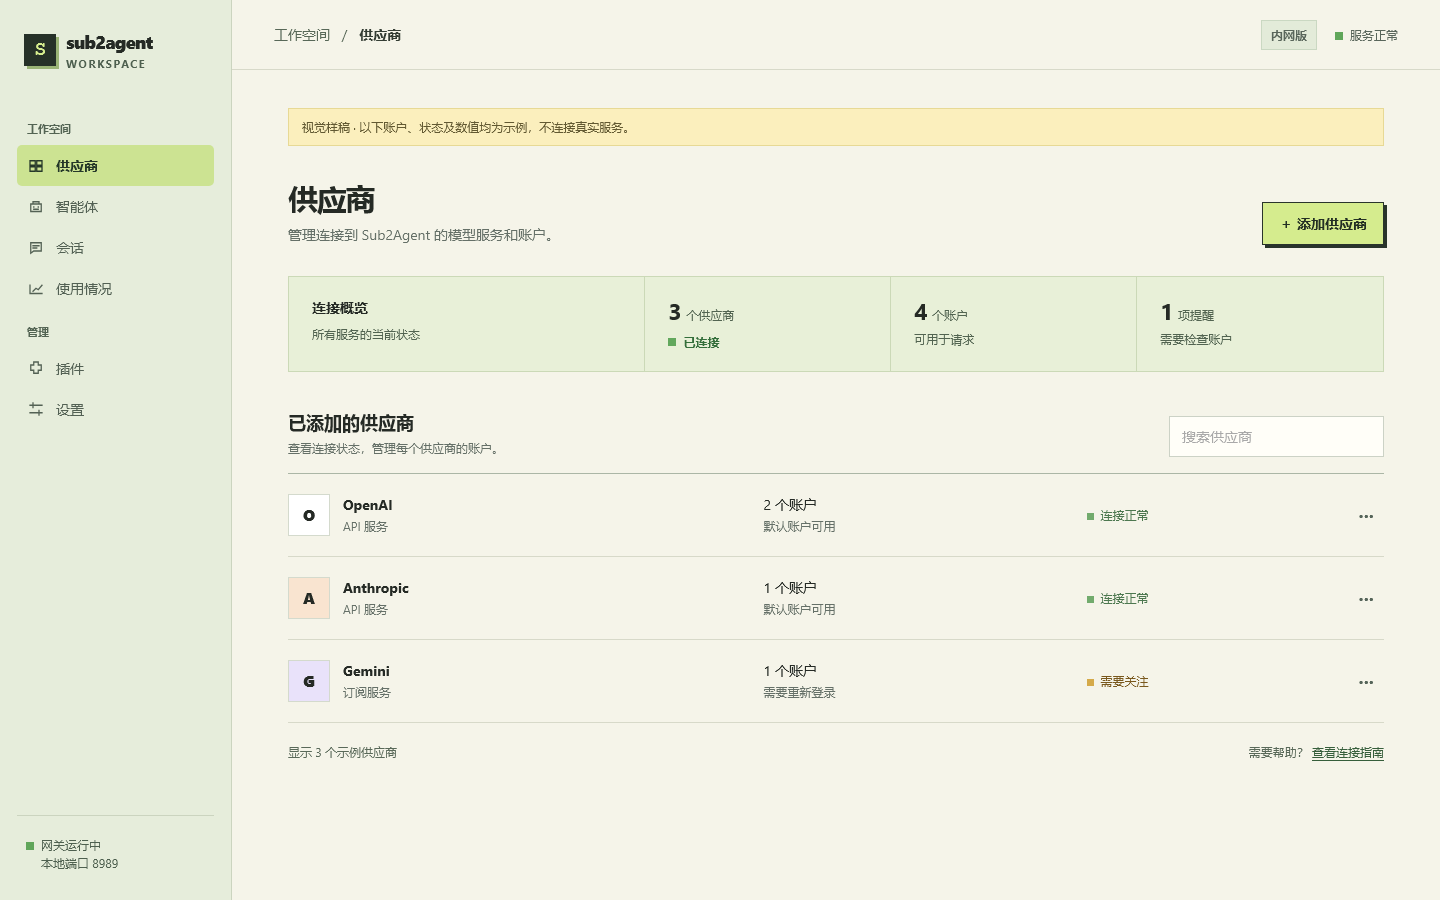
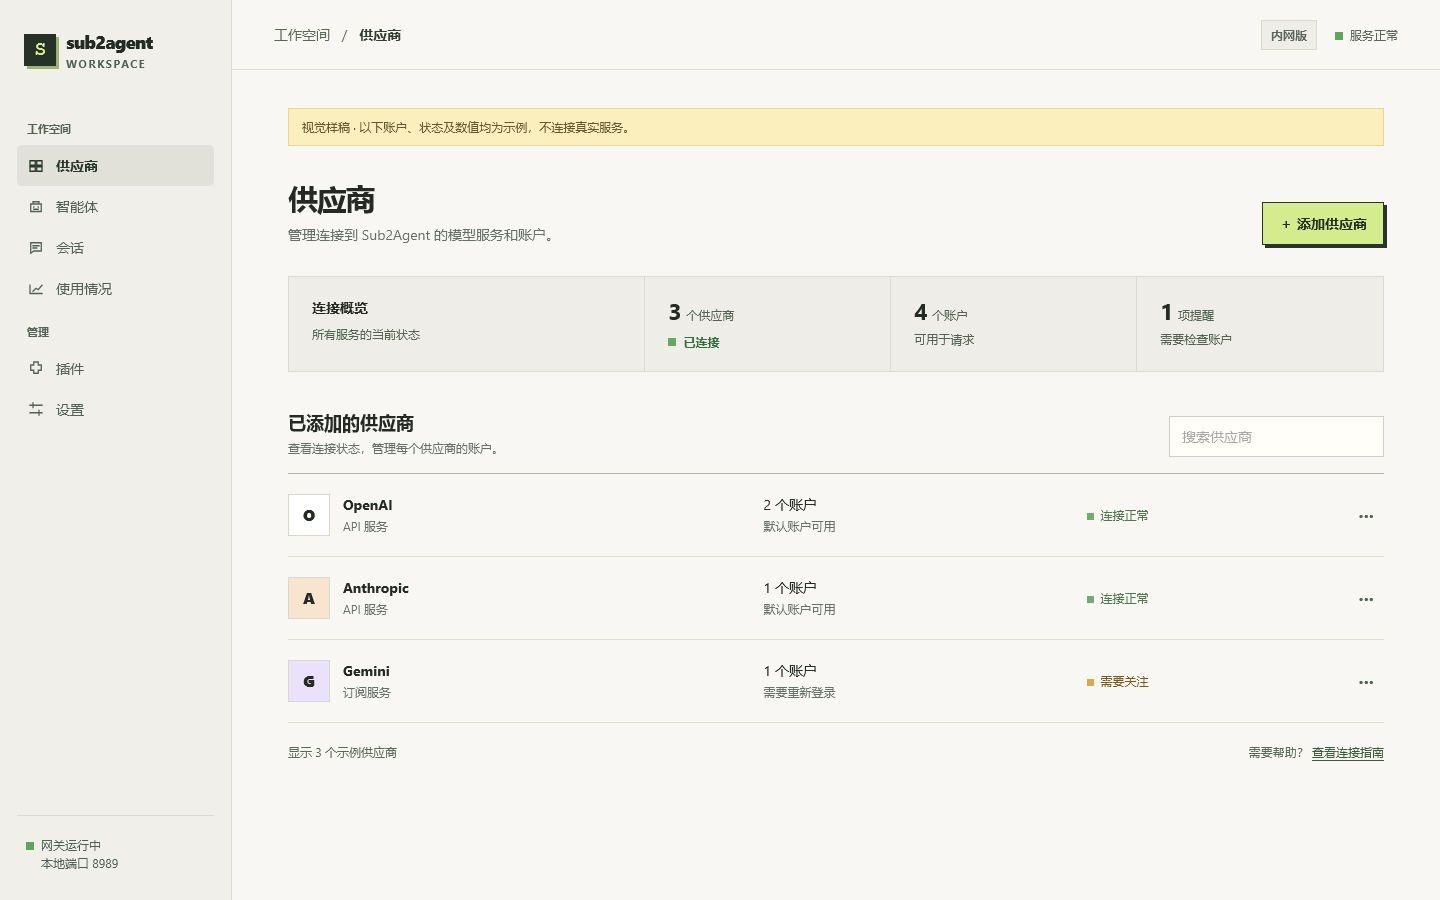
Use neutral surfaces in design preview
Verified updated desktop and mobile captures with Playwright WebKit at 1440 and 390 pixels. Preview retains illustrative data and does not connect to services.

Changed region(s): [[0.0, 0.1556, 0.1562, 0.2178]]

diff --git a/design-preview/index.html b/design-preview/index.html
@@ -1,5 +1,6 @@
 <!doctype html>
 <html lang="zh-CN"><head><meta charset="utf-8"><meta name="viewport" content="width=device-width,initial-scale=1"><title>Sub2Agent — 视觉样稿</title><style>
-:root{--ink:#252a25;--muted:#657068;--paper:#f5f4e9;--line:#d7d9c9;--green:#d5ec8e;--green-dark:#345f37;--white:#fffef8;--lav:#e9e2fa}*{box-sizing:border-box}body{margin:0;background:#e4e8d9;color:var(--ink);font:14px/1.5 'Segoe UI','Microsoft YaHei',sans-serif}button,input{font:inherit}button{cursor:pointer}button:focus-visible,input:focus-visible{outline:3px solid #689d58;outline-offset:3px}::selection{background:#bedf78}.shell{max-width:1500px;min-height:100vh;margin:auto;background:var(--paper);display:grid;grid-template-columns:232px 1fr}.sidebar{background:#e6eddb;border-right:1px solid #cbd4bf;padding:28px 17px;display:flex;flex-direction:column}.brand{display:flex;gap:10px;align-items:center;padding:0 7px 35px;font-weight:800;font-size:18px;letter-spacing:-.04em}.mark{width:32px;height:32px;image-rendering:pixelated;background:#263128;display:grid;place-items:center;color:#d5ec8e;font:bold 20px monospace;box-shadow:3px 3px 0 #9ab476}.brand small{display:block;font-size:11px;letter-spacing:.14em;color:#4e604f;font-weight:700}.nav-label{padding:0 10px;margin:14px 0 8px;color:#536453;font-size:11px;font-weight:700}.nav button{border:0;background:transparent;width:100%;text-align:left;display:flex;align-items:center;gap:11px;padding:10px;border-radius:5px;color:#536154}.nav button:hover{background:#dbe5d1}.nav button.active{background:#cce392;color:#253829;font-weight:700}.icon{width:18px;height:18px;fill:none;stroke:currentColor;stroke-width:1.7;stroke-linecap:square;stroke-linejoin:miter;flex:none}.side-bottom{margin-top:auto;padding:20px 9px 0;border-top:1px solid #cbd4bf;color:#4e604f;font-size:12px}.dot{display:inline-block;width:8px;height:8px;background:#60a65a;margin-right:7px}.main{min-width:0}.top{height:70px;border-bottom:1px solid var(--line);display:flex;align-items:center;justify-content:space-between;padding:0 42px}.crumb{color:#586858}.crumb strong{color:#343d34}.top-right{display:flex;gap:18px;align-items:center;font-size:12px;color:#59665b}.tag{background:#e3ebd9;border:1px solid #cad8c2;padding:5px 9px;font-weight:600}.workspace{max-width:1180px;margin:auto;padding:38px 42px 70px}.demo{background:#fbefbd;border:1px solid #e7d995;color:#625932;padding:9px 13px;margin-bottom:34px;font-size:12px}.heading{display:flex;align-items:flex-end;justify-content:space-between;gap:20px}.heading h1{font-size:30px;line-height:1.2;letter-spacing:-.04em;margin:0 0 8px}.heading p{margin:0;color:var(--muted)}.button{border:1.5px solid #29342b;background:var(--green);padding:10px 16px;color:#243024;font-weight:700;box-shadow:3px 3px 0 #29342b;white-space:nowrap}.button:hover{background:#c1df72;transform:translate(1px,1px);box-shadow:2px 2px 0 #29342b}.button.secondary{background:var(--white);box-shadow:none;border-color:#c9d0c1;font-weight:600;padding:8px 12px}.button.secondary:hover{border-color:#526b50;transform:none}.overview{margin:31px 0 37px;background:#e8f0d8;border:1px solid #cbd9b7;display:grid;grid-template-columns:1.45fr repeat(3,1fr)}.overview>div{padding:20px 23px;border-right:1px solid #cbd9b7}.overview>div:last-child{border:0}.overview .title{font-weight:700;margin-bottom:7px}.overview .meta{color:#526451;font-size:12px}.overview .value{font-size:23px;font-weight:750;letter-spacing:-.04em;line-height:1.2;margin-bottom:5px}.overview .value small{font-size:12px;letter-spacing:0;color:#526451;font-weight:500}.status{display:inline-flex;align-items:center;color:#346f3b;font-weight:700;font-size:12px}.status:before{content:'';width:8px;height:8px;background:#62a85d;margin-right:7px}.section-head{display:flex;justify-content:space-between;align-items:end;gap:20px;margin-bottom:16px}.section-head h2{font-size:18px;margin:0 0 3px}.section-head p{margin:0;color:var(--muted);font-size:12px}.search{border:1px solid #ccd2c6;background:var(--white);padding:9px 12px;width:215px;color:var(--ink)}.list{border-top:1px solid #abb6a6}.row{display:grid;grid-template-columns:minmax(200px,1.5fr) minmax(120px,1fr) minmax(110px,.8fr) auto;gap:18px;align-items:center;padding:20px 0;border-bottom:1px solid var(--line)}.provider{display:flex;align-items:center;gap:13px;min-width:0}.provider-logo{width:42px;height:42px;display:grid;place-items:center;border:1px solid #d4dacd;background:#fff;font-weight:800;font-size:16px}.provider-logo.violet{background:var(--lav)}.provider-logo.peach{background:#f9e4d0}.provider-logo.blue{background:#dcecf2}.name{font-weight:700}.sub{font-size:12px;color:var(--muted);margin-top:2px}.row .state{font-size:12px;color:#4d7850}.row .state.warn{color:#79581d}.row .state:before{content:'';display:inline-block;width:7px;height:7px;background:#72ab6d;margin-right:7px}.row .state.warn:before{background:#d5aa4a}.more{border:0;background:transparent;color:#56655a;font-weight:700;font-size:19px;padding:4px 10px}.empty{padding:25px 0;color:var(--muted)}.footer{display:flex;justify-content:space-between;gap:20px;margin-top:20px;color:#596959;font-size:12px}.link{color:#365e3b;text-decoration:underline;text-underline-offset:3px}.mobile-head{display:none}@media(max-width:760px){.shell{display:block}.sidebar{padding:14px 18px;border-right:0;border-bottom:1px solid #cbd4bf}.brand{padding:0}.nav,.side-bottom{display:none}.top{height:55px;padding:0 20px}.top-right .tag{display:none}.workspace{padding:25px 20px 45px}.demo{margin-bottom:24px}.heading{align-items:flex-start}.heading h1{font-size:26px}.overview{grid-template-columns:1fr 1fr}.overview>div{padding:15px;border-bottom:1px solid #cbd9b7}.overview>div:nth-child(2){border-right:0}.overview>div:nth-child(n+3){border-bottom:0}.section-head{align-items:stretch;flex-direction:column}.search{width:100%}.row{grid-template-columns:1fr auto;gap:8px}.row .account{grid-column:1;padding-left:55px}.row .state{grid-column:1;padding-left:55px}.row .more{grid-column:2;grid-row:1}.footer{flex-direction:column}.top-right{gap:8px}}
+:root{--ink:#252a25;--muted:#657068;--paper:#f8f7f3;--line:#dfddd6;--green:#d5ec8e;--green-dark:#345f37;--white:#fffef8;--lav:#e9e2fa}*{box-sizing:border-box}body{margin:0;background:#e8e7e2;color:var(--ink);font:14px/1.5 'Segoe UI','Microsoft YaHei',sans-serif}button,input{font:inherit}button{cursor:pointer}button:focus-visible,input:focus-visible{outline:3px solid #689d58;outline-offset:3px}::selection{background:#bedf78}.shell{max-width:1500px;min-height:100vh;margin:auto;background:var(--paper);display:grid;grid-template-columns:232px 1fr}.sidebar{background:#f0efea;border-right:1px solid #dcdbd4;padding:28px 17px;display:flex;flex-direction:column}.brand{display:flex;gap:10px;align-items:center;padding:0 7px 35px;font-weight:800;font-size:18px;letter-spacing:-.04em}.mark{width:32px;height:32px;image-rendering:pixelated;background:#263128;display:grid;place-items:center;color:#d5ec8e;font:bold 20px monospace;box-shadow:3px 3px 0 #9ab476}.brand small{display:block;font-size:11px;letter-spacing:.14em;color:#4e604f;font-weight:700}.nav-label{padding:0 10px;margin:14px 0 8px;color:#536453;font-size:11px;font-weight:700}.nav button{border:0;background:transparent;width:100%;text-align:left;display:flex;align-items:center;gap:11px;padding:10px;border-radius:5px;color:#536154}.nav button:hover{background:#e6e5df}.nav button.active{background:#e1e0d9;color:#253829;font-weight:700}.icon{width:18px;height:18px;fill:none;stroke:currentColor;stroke-width:1.7;stroke-linecap:square;stroke-linejoin:miter;flex:none}.side-bottom{margin-top:auto;padding:20px 9px 0;border-top:1px solid #dcdbd4;color:#4e604f;font-size:12px}.dot{display:inline-block;width:8px;height:8px;background:#60a65a;margin-right:7px}.main{min-width:0}.top{height:70px;border-bottom:1px solid var(--line);display:flex;align-items:center;justify-content:space-between;padding:0 42px}.crumb{color:#586858}.crumb strong{color:#343d34}.top-right{display:flex;gap:18px;align-items:center;font-size:12px;color:#59665b}.tag{background:#eeede8;border:1px solid #dad9d1;padding:5px 9px;font-weight:600}.workspace{max-width:1180px;margin:auto;padding:38px 42px 70px}.demo{background:#fbefbd;border:1px solid #e7d995;color:#625932;padding:9px 13px;margin-bottom:34px;font-size:12px}.heading{display:flex;align-items:flex-end;justify-content:space-between;gap:20px}.heading h1{font-size:30px;line-height:1.2;letter-spacing:-.04em;margin:0 0 8px}.heading p{margin:0;color:var(--muted)}.button{border:1.5px solid #29342b;background:var(--green);padding:10px 16px;color:#243024;font-weight:700;box-shadow:3px 3px 0 #29342b;white-space:nowrap}.button:hover{background:#c1df72;transform:translate(1px,1px);box-shadow:2px 2px 0 #29342b}.button.secondary{background:var(--white);box-shadow:none;border-color:#c9d0c1;font-weight:600;padding:8px 12px}.button.secondary:hover{border-color:#526b50;transform:none}.overview{margin:31px 0 37px;background:#eeede7;border:1px solid #dbdad2;display:grid;grid-template-columns:1.45fr repeat(3,1fr)}.overview>div{padding:20px 23px;border-right:1px solid #dbdad2}.overview>div:last-child{border:0}.overview .title{font-weight:700;margin-bottom:7px}.overview .meta{color:#526451;font-size:12px}.overview .value{font-size:23px;font-weight:750;letter-spacing:-.04em;line-height:1.2;margin-bottom:5px}.overview .value small{font-size:12px;letter-spacing:0;color:#526451;font-weight:500}.status{display:inline-flex;align-items:center;color:#346f3b;font-weight:700;font-size:12px}.status:before{content:'';width:8px;height:8px;background:#62a85d;margin-right:7px}.section-head{display:flex;justify-content:space-between;align-items:end;gap:20px;margin-bottom:16px}.section-head h2{font-size:18px;margin:0 0 3px}.section-head p{margin:0;color:var(--muted);font-size:12px}.search{border:1px solid #ccd2c6;background:var(--white);padding:9px 12px;width:215px;color:var(--ink)}.list{border-top:1px solid #abb6a6}.row{display:grid;grid-template-columns:minmax(200px,1.5fr) minmax(120px,1fr) minmax(110px,.8fr) auto;gap:18px;align-items:center;padding:20px 0;border-bottom:1px solid var(--line)}.provider{display:flex;align-items:center;gap:13px;min-width:0}.provider-logo{width:42px;height:42px;display:grid;place-items:center;border:1px solid #d4dacd;background:#fff;font-weight:800;font-size:16px}.provider-logo.violet{background:var(--lav)}.provider-logo.peach{background:#f9e4d0}.provider-logo.blue{background:#dcecf2}.name{font-weight:700}.sub{font-size:12px;color:var(--muted);margin-top:2px}.row .state{font-size:12px;color:#4d7850}.row .state.warn{color:#79581d}.row .state:before{content:'';display:inline-block;width:7px;height:7px;background:#72ab6d;margin-right:7px}.row .state.warn:before{background:#d5aa4a}.more{border:0;background:transparent;color:#56655a;font-weight:700;font-size:19px;padding:4px 10px}.empty{padding:25px 0;color:var(--muted)}.footer{display:flex;justify-content:space-between;gap:20px;margin-top:20px;color:#596959;font-size:12px}.link{color:#365e3b;text-decoration:underline;text-underline-offset:3px}.mobile-head{display:none}@media(max-width:760px){.shell{display:block}.sidebar{padding:14px 18px;border-right:0;border-bottom:1px solid #dcdbd4}.brand{padding:0}.nav,.side-bottom{display:none}.top{height:55px;padding:0 20px}.top-right .tag{display:none}.workspace{padding:25px 20px 45px}.demo{margin-bottom:24px}.heading{align-items:flex-start}.heading h1{font-size:26px}.overview{grid-template-columns:1fr 1fr}.overview>div{padding:15px;border-bottom:1px solid #dbdad2}.overview>div:nth-child(2){border-right:0}.overview>div:nth-child(n+3){border-bottom:0}.section-head{align-items:stretch;flex-direction:column}.search{width:100%}.row{grid-template-columns:1fr auto;gap:8px}.row .account{grid-column:1;padding-left:55px}.row .state{grid-column:1;padding-left:55px}.row .more{grid-column:2;grid-row:1}.footer{flex-direction:column}.top-right{gap:8px}}
 </style></head><body><div class="shell"><aside class="sidebar"><div class="brand"><span class="mark">S</span><span>sub2agent<small>WORKSPACE</small></span></div><nav class="nav" aria-label="主导航"><div class="nav-label">工作空间</div><button class="active" aria-current="page"><svg class="icon" viewBox="0 0 24 24"><path d="M4 5h7v6H4zM13 5h7v6h-7zM4 13h7v6H4zM13 13h7v6h-7z"/></svg>供应商</button><button><svg class="icon" viewBox="0 0 24 24"><path d="M5 8h14v10H5zM8 8V5h8v3M9 12h.1M15 12h.1M9 15h6"/></svg>智能体</button><button><svg class="icon" viewBox="0 0 24 24"><path d="M5 5h14v11H9l-4 3zM8 9h8M8 12h5"/></svg>会话</button><button><svg class="icon" viewBox="0 0 24 24"><path d="M4 18V7M4 18h16M8 15l4-4 3 2 5-6"/></svg>使用情况</button><div class="nav-label">管理</div><button><svg class="icon" viewBox="0 0 24 24"><path d="M9 4h6v4h4v7h-4v4H9v-4H5V8h4z"/></svg>插件</button><button><svg class="icon" viewBox="0 0 24 24"><path d="M4 7h16M4 17h16M8 4v6M16 14v6"/></svg>设置</button></nav><div class="side-bottom"><span class="dot"></span>网关运行中<br><span style="padding-left:15px">本地端口 8989</span></div></aside><main class="main"><header class="top"><div class="crumb">工作空间 <span style="padding:0 8px">/</span> <strong>供应商</strong></div><div class="top-right"><span class="tag">内网版</span><span><span class="dot"></span>服务正常</span></div></header><div class="workspace"><div class="demo">视觉样稿 · 以下账户、状态及数值均为示例，不连接真实服务。</div><div class="heading"><div><h1>供应商</h1><p>管理连接到 Sub2Agent 的模型服务和账户。</p></div><button class="button" id="add">＋ 添加供应商</button></div><section class="overview" aria-label="连接概览"><div><div class="title">连接概览</div><div class="meta">所有服务的当前状态</div></div><div><div class="value">3 <small>个供应商</small></div><span class="status">已连接</span></div><div><div class="value">4 <small>个账户</small></div><div class="meta">可用于请求</div></div><div><div class="value">1 <small>项提醒</small></div><div class="meta">需要检查账户</div></div></section><section><div class="section-head"><div><h2>已添加的供应商</h2><p>查看连接状态，管理每个供应商的账户。</p></div><input class="search" id="search" type="search" placeholder="搜索供应商" aria-label="搜索供应商"></div><div class="list" id="list"><div class="row" data-name="openai"><div class="provider"><div class="provider-logo">O</div><div><div class="name">OpenAI</div><div class="sub">API 服务</div></div></div><div class="account"><div>2 个账户</div><div class="sub">默认账户可用</div></div><div class="state">连接正常</div><button class="more" aria-label="OpenAI 更多操作">···</button></div><div class="row" data-name="anthropic claude"><div class="provider"><div class="provider-logo peach">A</div><div><div class="name">Anthropic</div><div class="sub">API 服务</div></div></div><div class="account"><div>1 个账户</div><div class="sub">默认账户可用</div></div><div class="state">连接正常</div><button class="more" aria-label="Anthropic 更多操作">···</button></div><div class="row" data-name="gemini google"><div class="provider"><div class="provider-logo violet">G</div><div><div class="name">Gemini</div><div class="sub">订阅服务</div></div></div><div class="account"><div>1 个账户</div><div class="sub">需要重新登录</div></div><div class="state warn">需要关注</div><button class="more" aria-label="Gemini 更多操作">···</button></div><div class="empty" id="empty" hidden>没有找到匹配的供应商。</div></div><div class="footer"><span>显示 3 个示例供应商</span><span>需要帮助？ <a class="link" href="#" id="help">查看连接指南</a></span></div></section></div></main></div><script>const search=document.querySelector('#search');search.addEventListener('input',()=>{let n=0;document.querySelectorAll('.row').forEach(row=>{const show=row.dataset.name.includes(search.value.trim().toLowerCase());row.hidden=!show;if(show)n++});document.querySelector('#empty').hidden=!!n});document.querySelectorAll('button:not(.nav button)').forEach(button=>button.addEventListener('click',()=>alert('这是视觉样稿，暂不连接真实功能。')));document.querySelectorAll('.nav button').forEach(button=>button.addEventListener('click',()=>{if(!button.classList.contains('active'))alert('这是供应商页面的视觉样稿。')}));document.querySelector('#help').addEventListener('click',e=>{e.preventDefault();alert('这是视觉样稿，连接指南尚未接入。')});</script></body></html>
+
 
